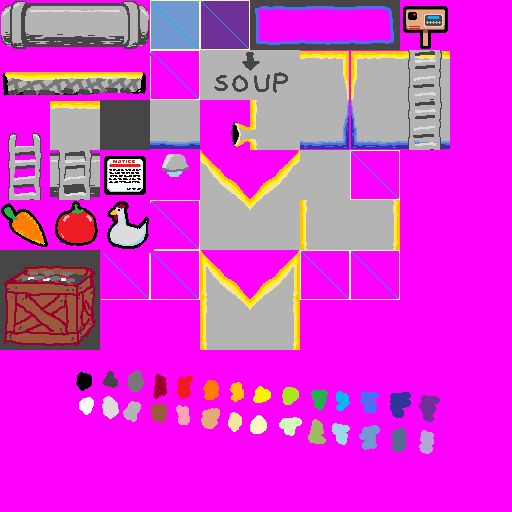
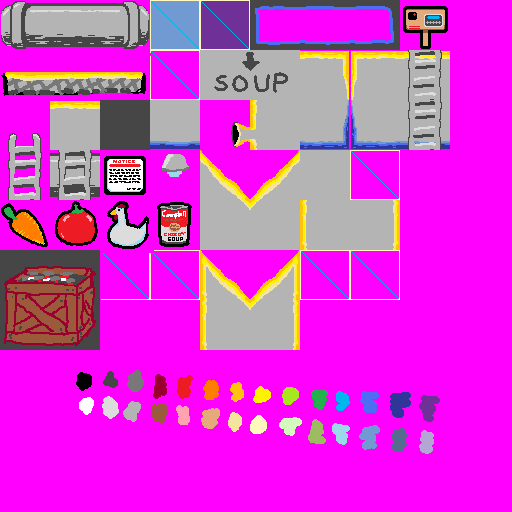
Box that collects soup and counts soup

Changed region(s): [[0.2812, 0.375, 0.375, 0.5]]

diff --git a/main.js b/main.js
@@ -787,6 +787,7 @@ class Level {
           y : object.y,
           w : object.width,
           h : object.height,
+          kind : getProperty(object, 'kind')
         });
         break;
 
@@ -1910,8 +1911,16 @@ class Tosser {
 
   doCollectors() {
     for (let collector of level.collectors) {
+      let matches;
+      if (collector.kind === 'crate') {
+        matches = this.data.kind === 'soup';
+      } else if (collector.kind === 'pot') {
+        matches = this.data.kind !== 'soup';
+      } else {
+        throw 'halp;';
+      }
       let rect = new Rect(collector.x, collector.y, collector.w, collector.h);
-      if (this.rect.intersects(rect)) {
+      if (matches && this.rect.intersects(rect)) {
         this.lifeTime = 0;
         counters.increment(this.data.kind);
       }
@@ -1979,8 +1988,10 @@ class Counters {
   }
 
   tryMake() {
+
     const required = 2;
     for (let obj of this.objs) {
+      if (obj.kind === 'soup') continue;
       if (obj.count < required) {
         return;
       }
@@ -1988,6 +1999,7 @@ class Counters {
 
     // OK, we have enough resources
     for (let obj of this.objs) {
+      if (obj.kind === 'soup') continue;
       obj.count -= required;
     }
 
@@ -1996,7 +2008,7 @@ class Counters {
 
     // Make a can of soup
     pickups.objs.push(
-        new Pickup('soup', spout.x, spout.y, pickups.soupSpawnRegion));
+        new Pickup('soup', spout.x + rand(-10, 10), spout.y + rand(-10, 10), pickups.soupSpawnRegion));
   }
 
   draw(shader, dt) {
